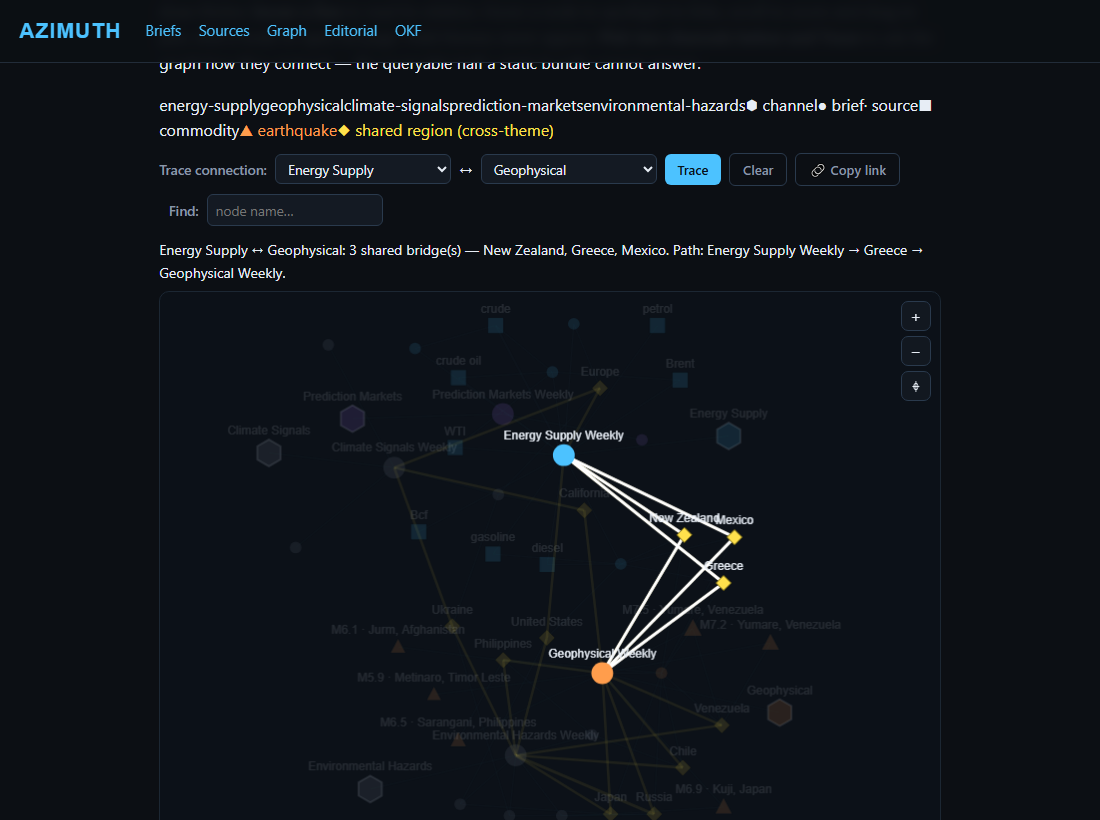
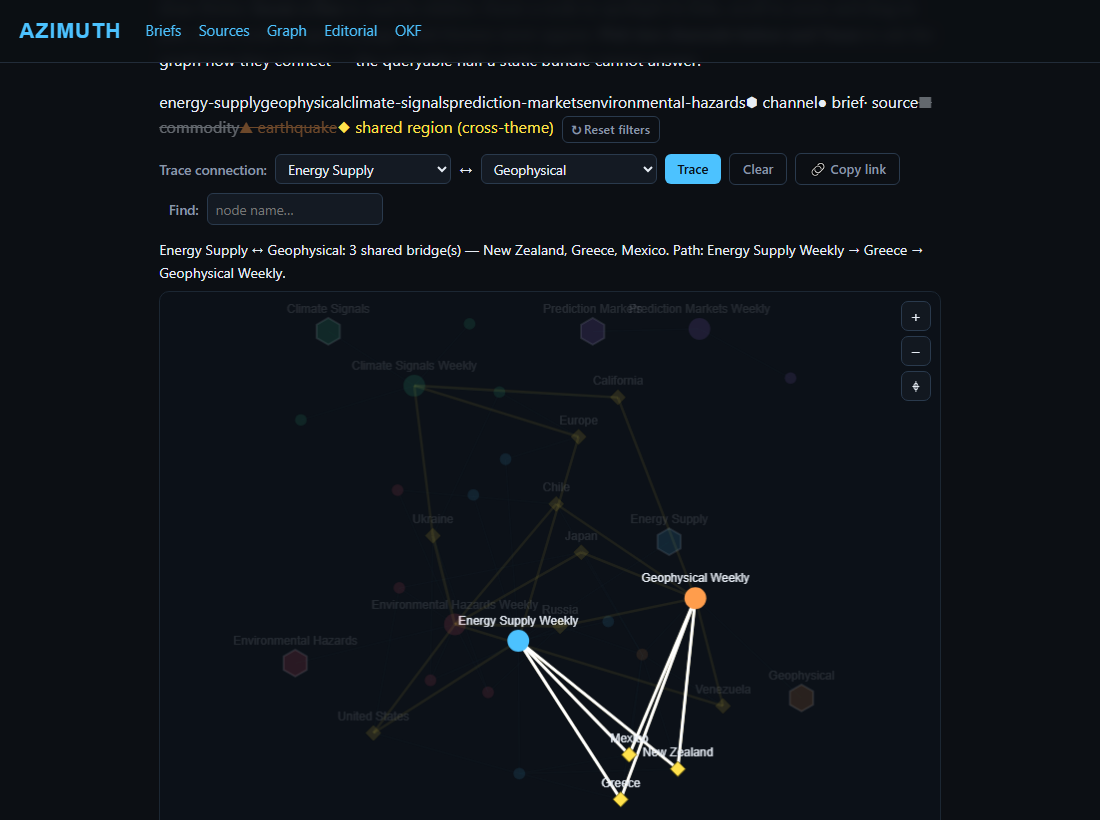
feat(graph): honour prefers-reduced-motion + rebank palette proof (KR-B)
Motion-sensitive visitors got the full auto-playing spring layout on
load. Now the template reads prefers-reduced-motion: the force layout
starts cold (heat 0) and is pre-settled synchronously, so the graph
opens in its final shape with zero on-load animation; interactions
repaint without re-animating. User-driven drag/pan/zoom still work.
Guarded by test_rendered_html_honours_reduced_motion; live Playwright
smoke re-passes (render + Trace + mobile pan). Rebank docs/proof
overview + trace shots to show the five now-distinct channel colours.

diff --git a/site/graph.html b/site/graph.html
@@ -182,8 +182,15 @@ let DPR = 1, CSSW = LW, CSSH = LH;
 const view = { s: 1, tx: 0, ty: 0 };   // screen_px = world*s + t  (CSS px)
 let userView = false;                   // true once the user zooms/pans -> stop auto-fit
 // Layout heat (decays -> physics idle) + repaint flag (draw only on a dirty frame).
-let heat = 1, dirty = true;
-const reheat = (v = 0.55) => { heat = Math.min(1, Math.max(heat, v)); dirty = true; };
+// Accessibility: prefers-reduced-motion visitors never get the auto-playing spring
+// animation — the layout is pre-settled synchronously at load (heat starts at 0) and
+// interactions repaint without re-animating, so nothing on the page moves on its own.
+const REDUCED = !!(window.matchMedia && window.matchMedia("(prefers-reduced-motion: reduce)").matches);
+let heat = REDUCED ? 0 : 1, dirty = true;
+const reheat = (v = 0.55) => {
+  if (REDUCED) { dirty = true; return; }
+  heat = Math.min(1, Math.max(heat, v)); dirty = true;
+};
 const mark = () => { dirty = true; };
 function fitView() {
   const pad = 26;
@@ -609,6 +616,9 @@ if (zout) zout.addEventListener("click", () => zoomBy(1/1.3));
 if (zreset) zreset.addEventListener("click", () => { userView = false; resize(); mark(); });
 window.addEventListener("resize", () => { resize(); dirty = true; });
 resize();
+// Reduced-motion: settle the force layout once, synchronously, so the graph opens in its
+// final shape with zero on-load animation (the O(N^2) step is cheap at this node count).
+if (REDUCED) { for (let k = 0; k < 600; k++) step(); heat = 0; dirty = true; }
 // --- cooled render loop -----------------------------------------------------
 // The old loop ran the O(N^2) force step twice every frame forever, pinning a CPU
 // core for as long as the public page stayed open. Instead the layout carries a

diff --git a/tests/unit/test_build_graph.py b/tests/unit/test_build_graph.py
@@ -445,3 +445,18 @@ def test_every_live_channel_has_a_dedicated_colour() -> None:
     # colours must be distinct so adjacent clusters read apart
     chosen = [palette[t] for t in live_channels]
     assert len(set(chosen)) == len(chosen), "two channels share a colour"
+
+
+def test_rendered_html_honours_reduced_motion(tmp_path: Path) -> None:
+    """Accessibility: the viz must respect prefers-reduced-motion — no auto-playing
+    layout animation for motion-sensitive visitors. The template detects the media query,
+    starts the layout cold, and pre-settles it synchronously at load. Template-only
+    behaviour, so it gets its own presence guard.
+    """
+    graph = _build(tmp_path)
+    html = build_graph_mod.render_html(graph)
+    assert "prefers-reduced-motion: reduce" in html
+    assert "REDUCED" in html
+    # cold start + synchronous pre-settle (no on-load spring animation)
+    assert "heat = REDUCED ? 0 : 1" in html
+    assert "if (REDUCED) { for (let k = 0; k < 600; k++) step(); heat = 0; dirty = true; }" in html

diff --git a/scripts/build_graph.py b/scripts/build_graph.py
@@ -711,8 +711,15 @@ let DPR = 1, CSSW = LW, CSSH = LH;
 const view = { s: 1, tx: 0, ty: 0 };   // screen_px = world*s + t  (CSS px)
 let userView = false;                   // true once the user zooms/pans -> stop auto-fit
 // Layout heat (decays -> physics idle) + repaint flag (draw only on a dirty frame).
-let heat = 1, dirty = true;
-const reheat = (v = 0.55) => { heat = Math.min(1, Math.max(heat, v)); dirty = true; };
+// Accessibility: prefers-reduced-motion visitors never get the auto-playing spring
+// animation — the layout is pre-settled synchronously at load (heat starts at 0) and
+// interactions repaint without re-animating, so nothing on the page moves on its own.
+const REDUCED = !!(window.matchMedia && window.matchMedia("(prefers-reduced-motion: reduce)").matches);
+let heat = REDUCED ? 0 : 1, dirty = true;
+const reheat = (v = 0.55) => {
+  if (REDUCED) { dirty = true; return; }
+  heat = Math.min(1, Math.max(heat, v)); dirty = true;
+};
 const mark = () => { dirty = true; };
 function fitView() {
   const pad = 26;
@@ -1138,6 +1145,9 @@ if (zout) zout.addEventListener("click", () => zoomBy(1/1.3));
 if (zreset) zreset.addEventListener("click", () => { userView = false; resize(); mark(); });
 window.addEventListener("resize", () => { resize(); dirty = true; });
 resize();
+// Reduced-motion: settle the force layout once, synchronously, so the graph opens in its
+// final shape with zero on-load animation (the O(N^2) step is cheap at this node count).
+if (REDUCED) { for (let k = 0; k < 600; k++) step(); heat = 0; dirty = true; }
 // --- cooled render loop -----------------------------------------------------
 // The old loop ran the O(N^2) force step twice every frame forever, pinning a CPU
 // core for as long as the public page stayed open. Instead the layout carries a